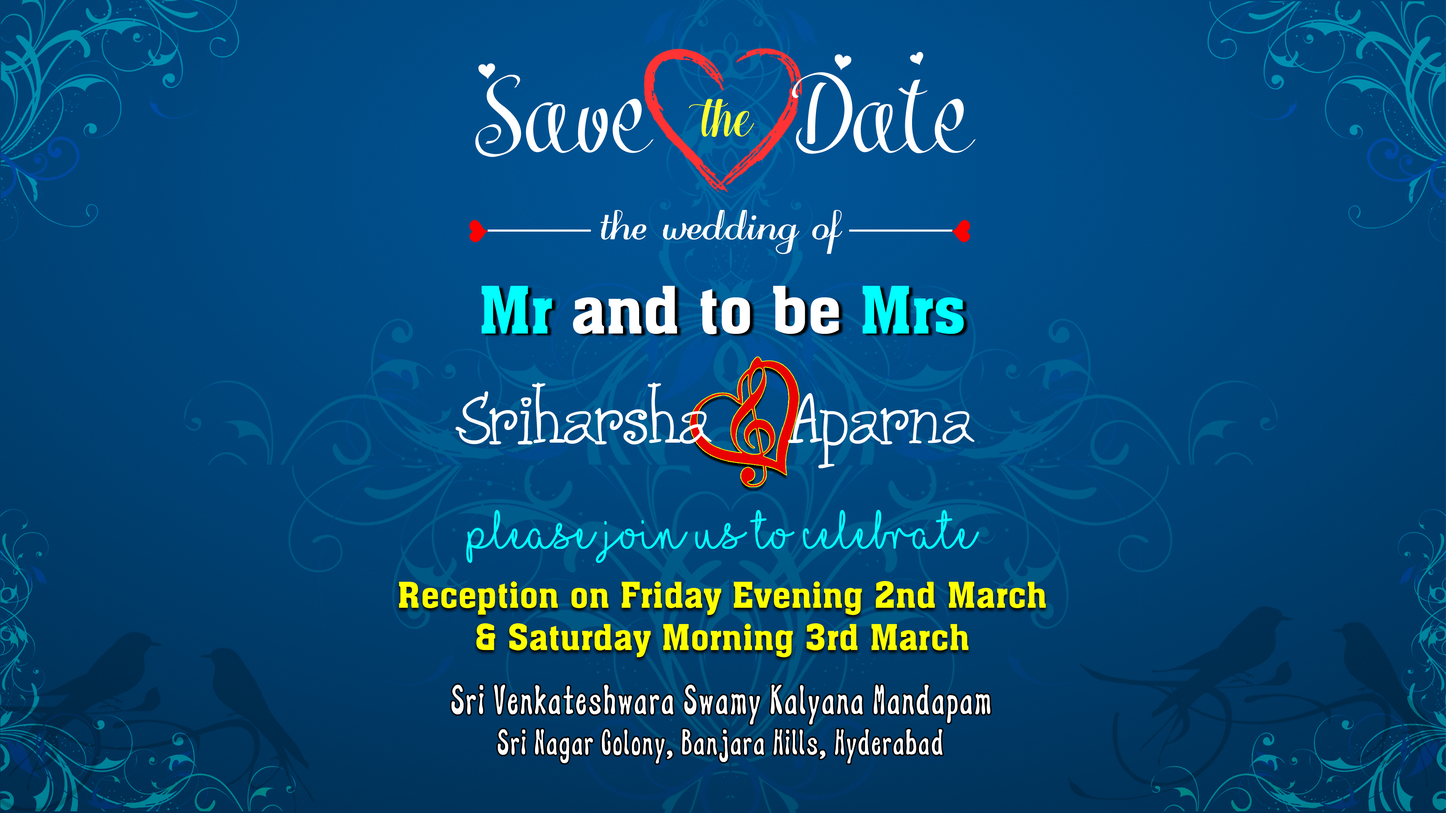
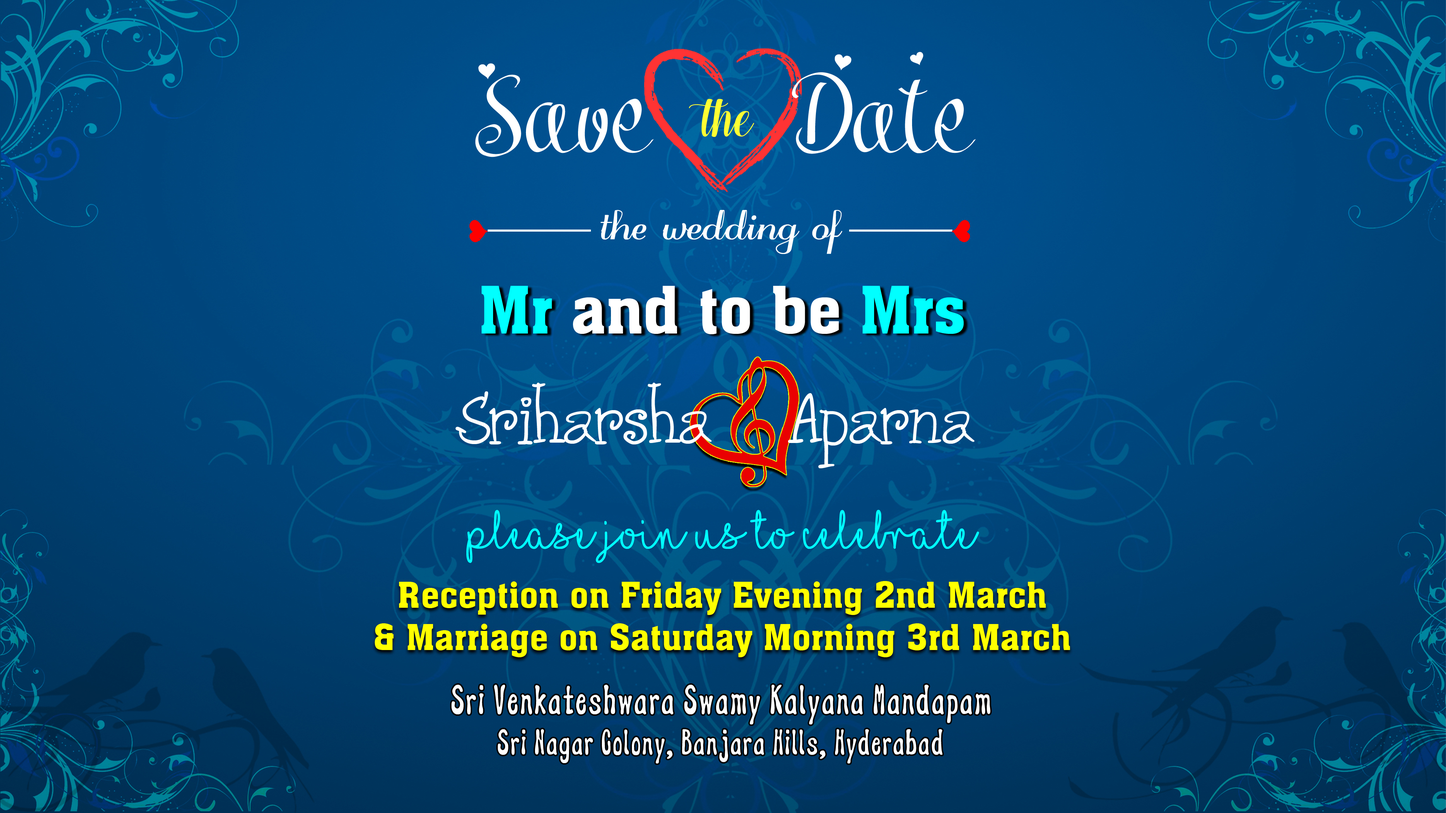
image content updated. TimeZone updated. Names corrected

Changed region(s): [[0.25, 0.7467, 0.75, 0.8089]]

diff --git a/index.html b/index.html
@@ -75,14 +75,14 @@ Purchase: NA
 									<li>
 										<a href="5">Family</a>
 									</li>
-									<!-- <li>
-										<a href="6">Gallery</a>
-									</li> -->
 									<li>
-										<a href="7">Blog</a>
+										<a href="6">Contact Us</a>
 									</li>
 									<!-- <li>
-										<a href="8">Contact Us</a>
+										<a href="7">Gallery</a>
+									</li>
+									<li>
+										<a href="8">Blog</a>
 									</li> -->
 								</ul>
 							</div>
@@ -129,9 +129,9 @@ Purchase: NA
 								</span>
 								<img src="images/content/groom.png" alt="Groom" class="img-responsive">
 							</div>
-							<h2>Harsha</h2>
+							<h2>Sriarsha</h2>
 							<p>(S/o Mrs. Rama & Mr. Jagannadha Rao)</p>
-							<ul>
+							<!-- <ul>
 								<li>
 									<a href="#">
 										<i class="fa fa-facebook" aria-hidden="true"></i>
@@ -147,7 +147,7 @@ Purchase: NA
 										<i class="fa fa-instagram" aria-hidden="true"></i>
 									</a>
 								</li>
-							</ul>
+							</ul> -->
 						</div>
 					</div>
 					<div class="col-lg-4 col-md-4 col-sm-21 col-xs-12 col-lg-push-4 col-md-push-4 col-sm-push-0">
@@ -160,7 +160,7 @@ Purchase: NA
 							</div>
 							<h2>Aparna</h2>
 							<p>(D/o Mrs. Satya & Mr. Diwakar)</p>
-							<ul>
+							<!-- <ul>
 								<li>
 									<a href="#">
 										<i class="fa fa-facebook" aria-hidden="true"></i>
@@ -176,7 +176,7 @@ Purchase: NA
 										<i class="fa fa-instagram" aria-hidden="true"></i>
 									</a>
 								</li>
-							</ul>
+							</ul> -->
 						</div>
 					</div>
 					<div class="col-lg-4 col-md-4 col-sm-12 col-xs-12 col-lg-pull-4 col-md-pull-4 col-sm-pull-0">
@@ -314,7 +314,6 @@ Purchase: NA
 								<h2>You’re Invited
 									<span> Aparna & Harsha </span> Wedding</h2>
 								<h4>Please Rsvp Before 28 Feb 2018</h4>
-								<p>Describe attractions</p>
 								<h2>
 									<span>Gift Registry</span>
 								</h2>
@@ -441,7 +440,7 @@ Purchase: NA
 								<li role="presentation" class="active">
 									<a href="#groom" aria-controls="groom" role="tab" data-toggle="tab">
 										<img src="images/content/tab1.jpg" alt="Groom">
-										<p>Harsha</p>
+										<p>Sriharsha</p>
 									</a>
 								</li>
 								<li role="presentation">
@@ -746,7 +745,7 @@ Purchase: NA
 		<!-- Gallery Wrapper End -->
 
 		<!-- Footer Wrapper Start -->
-		<div class="wd_footer_wrapper wd_toppadder90 wd_bottompadder100">
+		<div section-scroll="6" class="wd_footer_wrapper wd_toppadder90 wd_bottompadder100">
 			<div class="container">
 				<div class="row">
 					<div class="col-lg-4 col-md-4 col-sm-4 col-xs-12">

diff --git a/js/custom.js b/js/custom.js
@@ -306,7 +306,7 @@
 	});
 	
 	// CountDown Js
-	var deadline = 'March 3 2018 08:00:00 GMT-0530';
+	var deadline = 'March 3 2018 08:06:00 GMT+0530';
 		function time_remaining(endtime){
 			var t = Date.parse(endtime) - Date.parse(new Date());
 			var seconds = Math.floor( (t/1000) % 60 );
